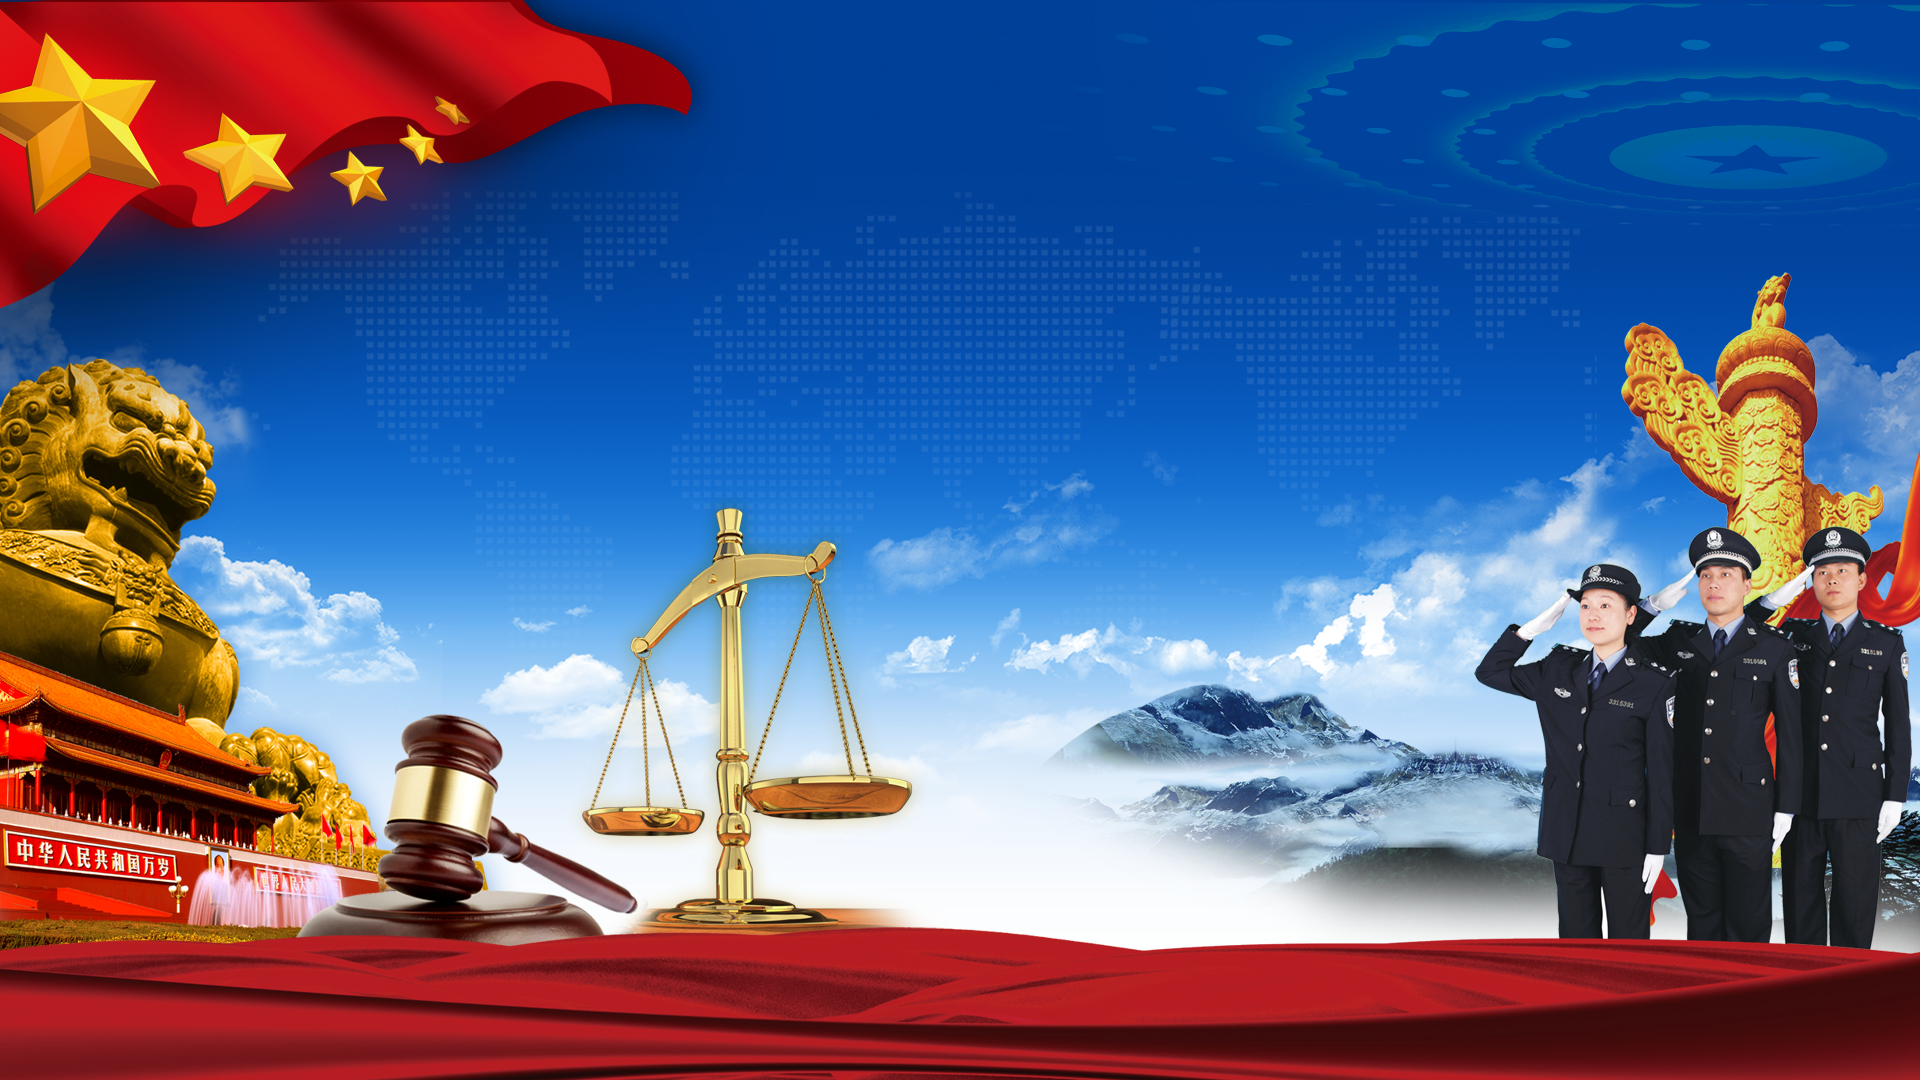
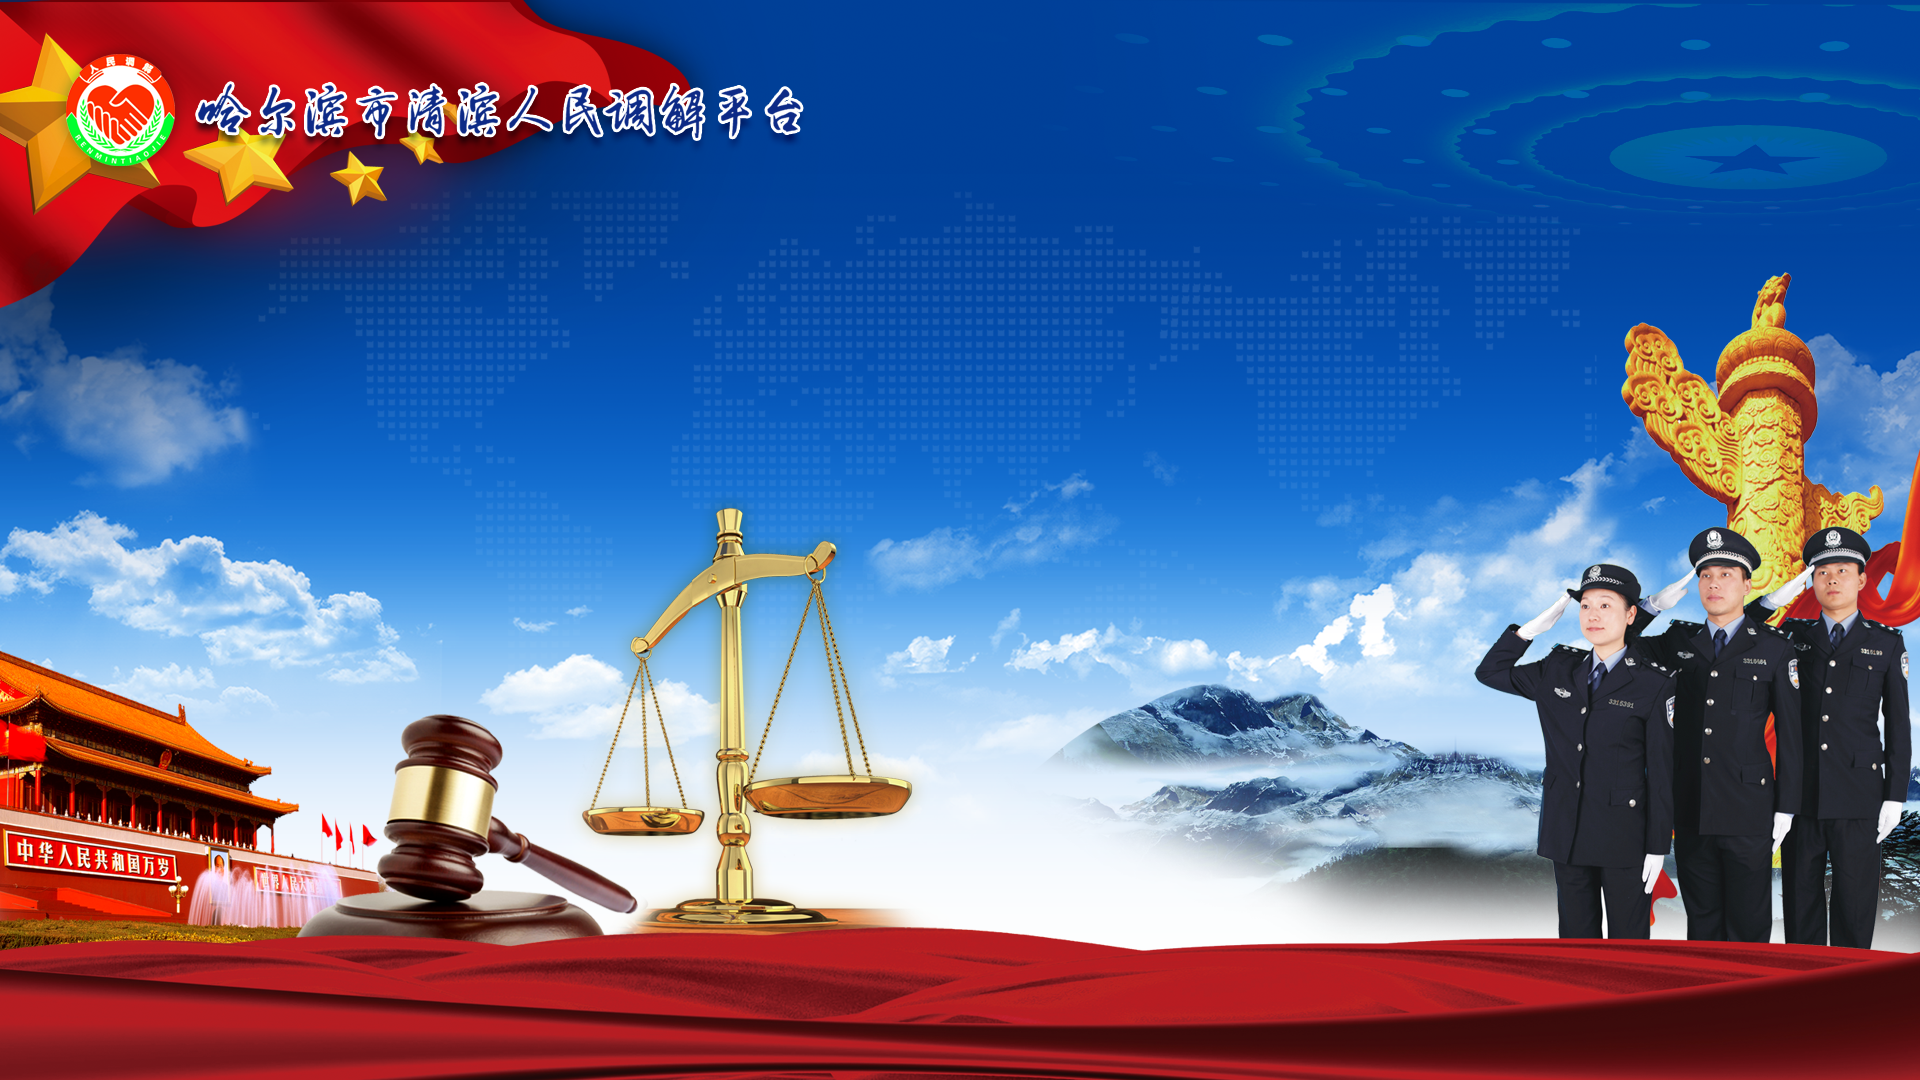
style

Changed region(s): [[0.0, 0.3361, 0.2188, 0.825], [0.0312, 0.0306, 0.4375, 0.1528], [0.25, 0.7944, 0.2812, 0.825]]

diff --git a/assets/css/rev-settings.css b/assets/css/rev-settings.css
@@ -6,13 +6,58 @@ html {
 }
 .bg-img {
 	/*background: url(../images/login-bg.jpg) no-repeat;*/
-	height: 920px;
+	height: 940px;
+	max-height:940px;
 	width: 100%;
+}
+@media screen and (min-width:640px) and (max-width:1024px) {
+	.bg-img {
+		height: 560px;
+		max-height:560px;
+	}
+}
+@media screen and (min-width:1024px) and (max-width:1360px) {
+	.bg-img{
+		height: 700px;
+		max-height:700px;
+	}
+}
+@media screen and (min-width:1360px) and (max-width:1680px) {
+	.bg-img{
+		height: 860px;
+		max-height:860px;
+	}
+}
+@media screen and (min-width:1680px) and (max-width:1920px) {
+	.bg-img{
+		height: 940px;
+		max-height:940px;
+	}
 }
 .img-bg{
 	width: 100%;
 	position: absolute;
-	max-height: 920px;
+	max-height: 940px;
+}
+@media screen and (min-width:640px) and (max-width:1024px) {
+	.img-bg {
+		max-height: 560px;
+	}
+}
+@media screen and (min-width:1024px) and (max-width:1360px) {
+	.img-bg{
+		max-height: 700px;
+	}
+}
+@media screen and (min-width:1360px) and (max-width:1680px) {
+	.img-bg{
+		max-height: 860px;
+	}
+}
+@media screen and (min-width:1680px) and (max-width:1920px) {
+	.img-bg{
+		max-height: 940px;
+	}
 }
 .fullwidthbanner-container {
 	width: 100% !important;
@@ -22,9 +67,29 @@ html {
 	background: #fff;
 }
 .revolution-slider {
-	max-height: 900px !important;
+	max-height: 940px !important;
 	display: block;
 	position: relative;
+}
+@media screen and (min-width:640px) and (max-width:1024px) {
+	.revolution-slider {
+		max-height: 560px;
+	}
+}
+@media screen and (min-width:1024px) and (max-width:1360px) {
+	.revolution-slider{
+		max-height: 700px;
+	}
+}
+@media screen and (min-width:1360px) and (max-width:1680px) {
+	.revolution-slider{
+		max-height: 860px;
+	}
+}
+@media screen and (min-width:1680px) and (max-width:1920px) {
+	.revolution-slider{
+		max-height: 940px;
+	}
 }
 .med-white {    /*med size*/
 	color: #fff;

diff --git a/assets/css/style.css b/assets/css/style.css
@@ -92,19 +92,43 @@ body {
 	float: left;
 }
 .logo-name{
-	width:123px;
+	width:60%;
 	height:56px;
 	color: #fff;
-	font-size: 14px;
+	font-size: 18px;
 	float: left;
-	margin-top: 7px;
-	margin-left: -4px;
+	margin-top: 15px;
+	margin-left:2px;
 }
 .login-main {
 	width: 1000px;
 	position: absolute;
 	right: 15%;
 	top:15%;
+}
+@media screen and (min-width:640px) and (max-width:1024px) {
+	.login-main {
+		right: 18%;
+		top:10%;
+	}
+}
+@media screen and (min-width:1024px) and (max-width:1360px) {
+	.login-main{
+		right: 20%;
+		top:20%;
+	}
+}
+@media screen and (min-width:1360px) and (max-width:1680px) {
+	.login-main{
+		right: 20%;
+		top:20%;
+	}
+}
+@media screen and (min-width:1680px) and (max-width:1920px) {
+	.login-main{
+		right: 25%;
+		top:25%;
+	}
 }
 .login-left {
 	float: left;
@@ -158,7 +182,7 @@ body {
 .infor-body {
 	float: right;
 	height: 56px;
-	min-width: 90px;
+	width: 100px;
 }
 .infor-name {
 	float: left;
@@ -298,6 +322,7 @@ body {
 	float: left;
 	height: 56px;
 	background: #1860c2;
+	width: 88%;
 }
 .people-infor {
 	float: right;

diff --git a/src/components/login/Login.js b/src/components/login/Login.js
@@ -111,7 +111,6 @@ class Login extends Component {
             <div className="revolution-slider">
                 <ul><li className="bg-img" >
                     <img src="assets/images/login-bg.png" className="img-bg"/>
-                    <div className="logo-top"></div>
                     <div className="login-main">
                         <Tips/>
                         <div className="login-right" onChange={this.handlerChange.bind(this)}>
@@ -134,7 +133,7 @@ class Login extends Component {
     }
 
 }
-// {APP_TITLE_NAME}
+// <div className="logo-top">{APP_TITLE_NAME}</div>
 Login.propTypes = {
     header: PropTypes.object.isRequired
 };

diff --git a/src/constants/Constant.js b/src/constants/Constant.js
@@ -9,7 +9,7 @@ export const CHANGE_PASS_FAIL = '1';
 export const CHANGE_PASS_OLD_ERROR = '-1';
 
 // export const APP_TITLE_NAME = '哈尔滨市安全生产综合监督管理平台';
-export const APP_TITLE_NAME = '哈尔滨市清滨人民调解平台';
+export const APP_TITLE_NAME = '哈尔滨市人民调解平台——清滨调解中心';
 export const SESSION_TIMEOUT_MSG = '用户登录已超时';
 
 export const CAPTCHA_URL = process.env.NODE_ENV === 'production' ? 'captcha.jpg':'assets/images/captcha-photo.jpg';
